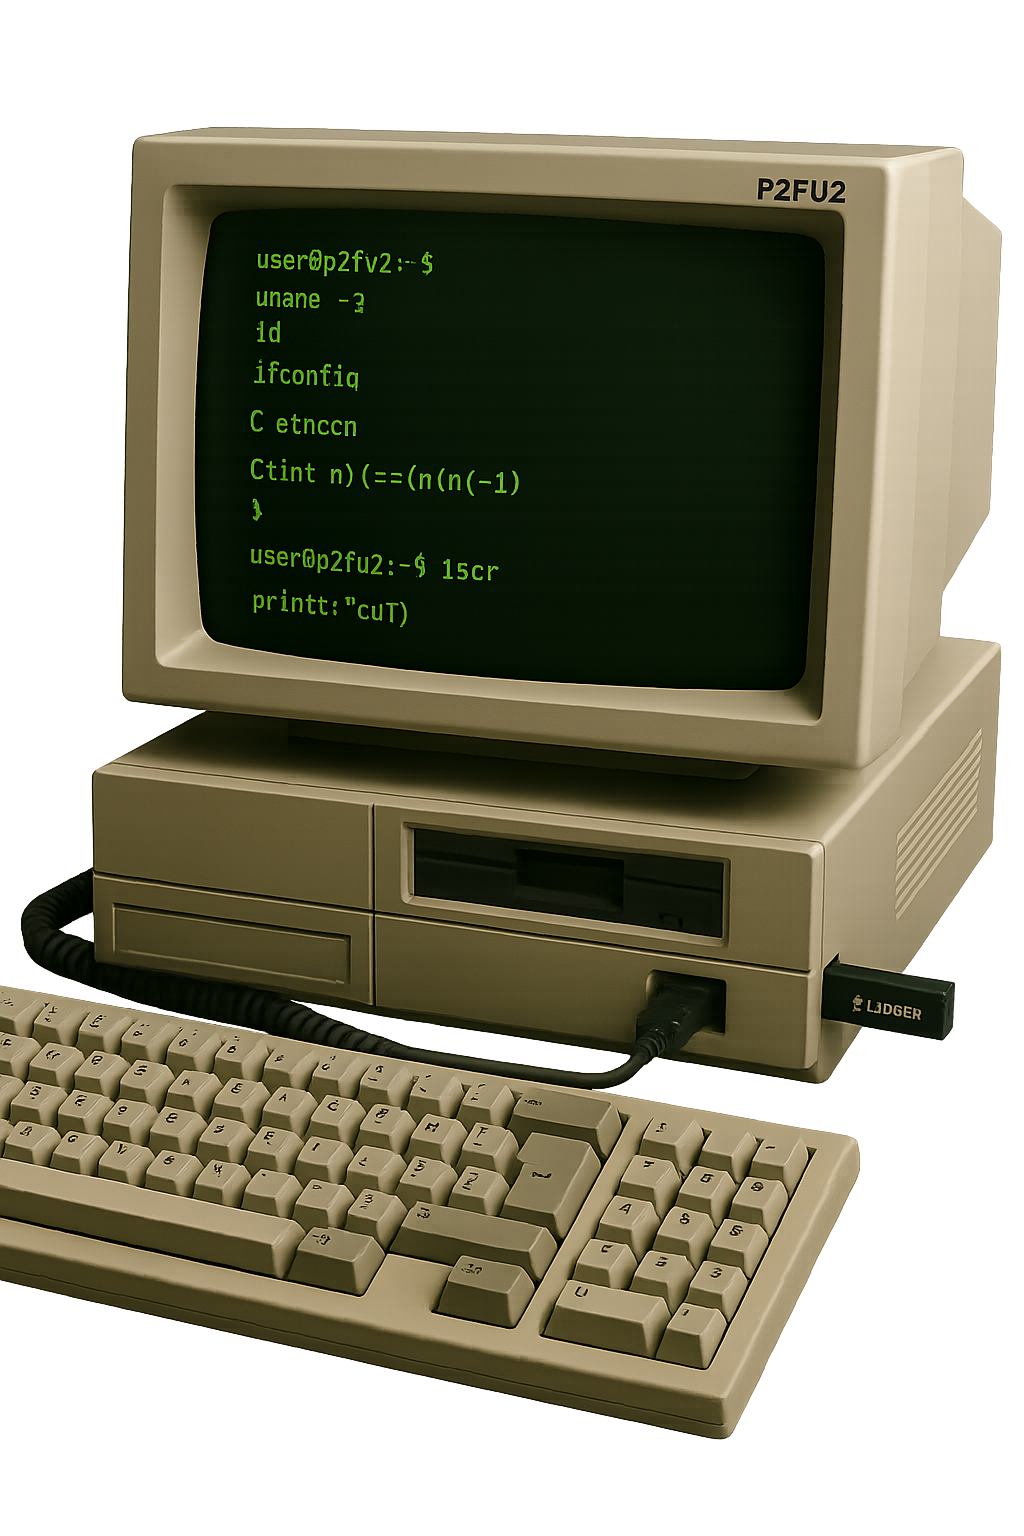
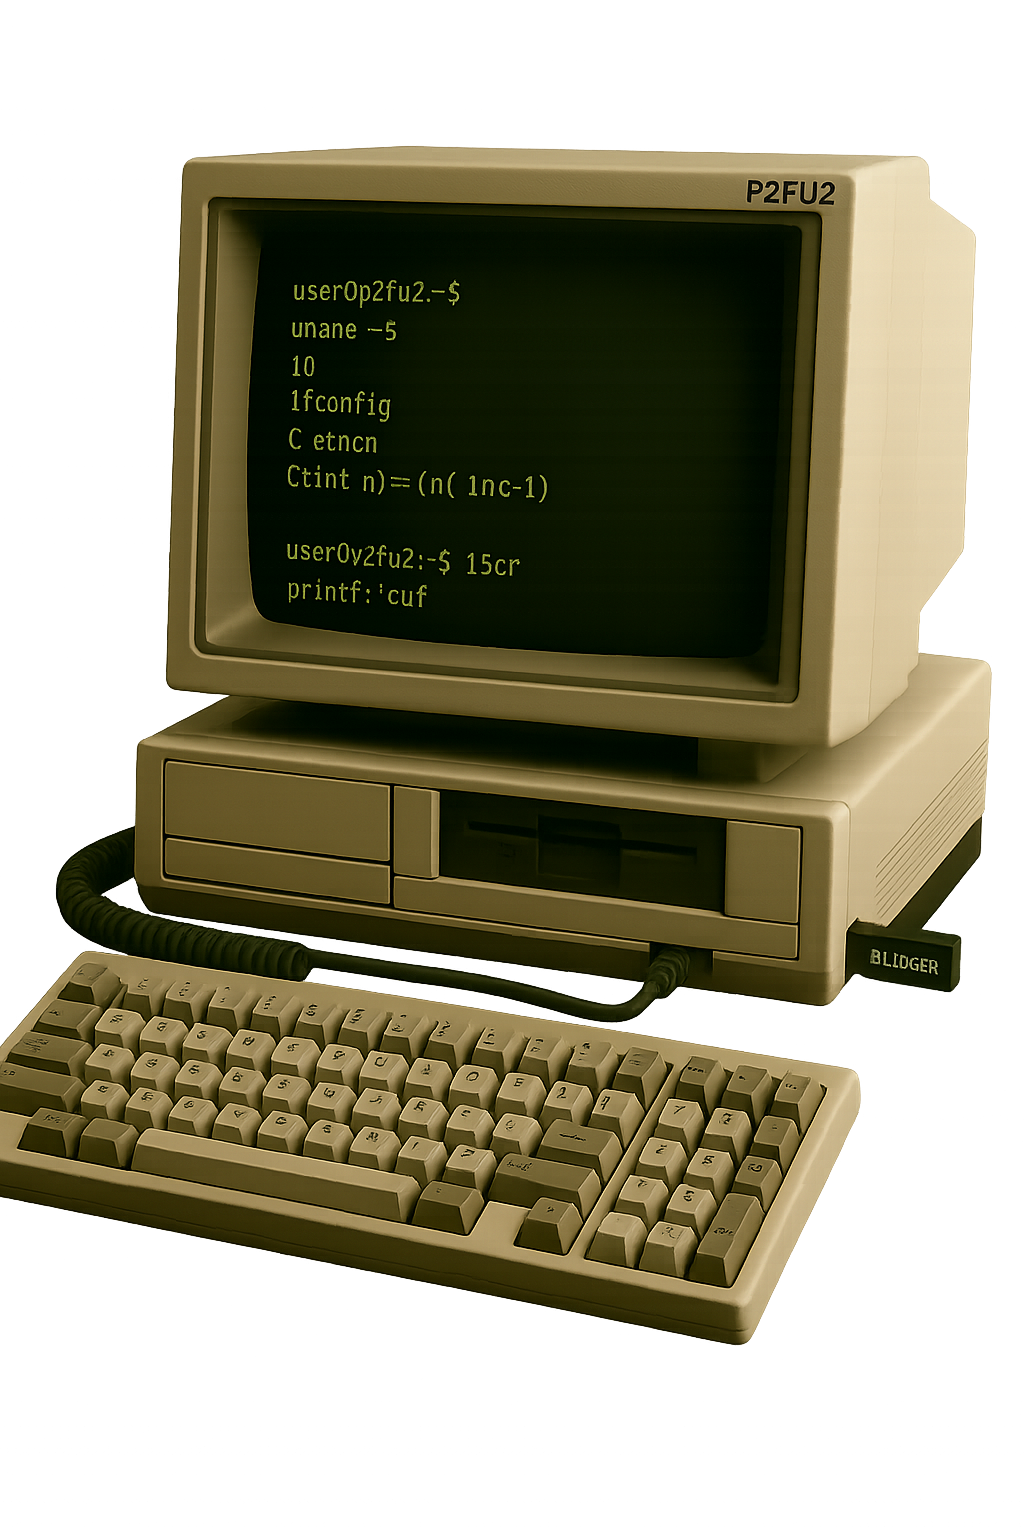
Mudancas nos diretorios

diff --git a/index.html b/index.html
@@ -314,7 +314,7 @@
           return;
         }
         if (cmd.includes('resume')) window.location.href = 'https://P2FU2.github.io/html/cv.html';
-        else if (cmd.includes('project')) window.location.href = 'projects.html';
+        else if (cmd.includes('project')) window.location.href = 'https://P2FU2.github.io/html/projects.html';
         else if (cmd.includes('analysis')) window.location.href = 'https://P2FU2.github.io/html/analysis.html';
         else alert('Unknown command');
         e.target.value = '';